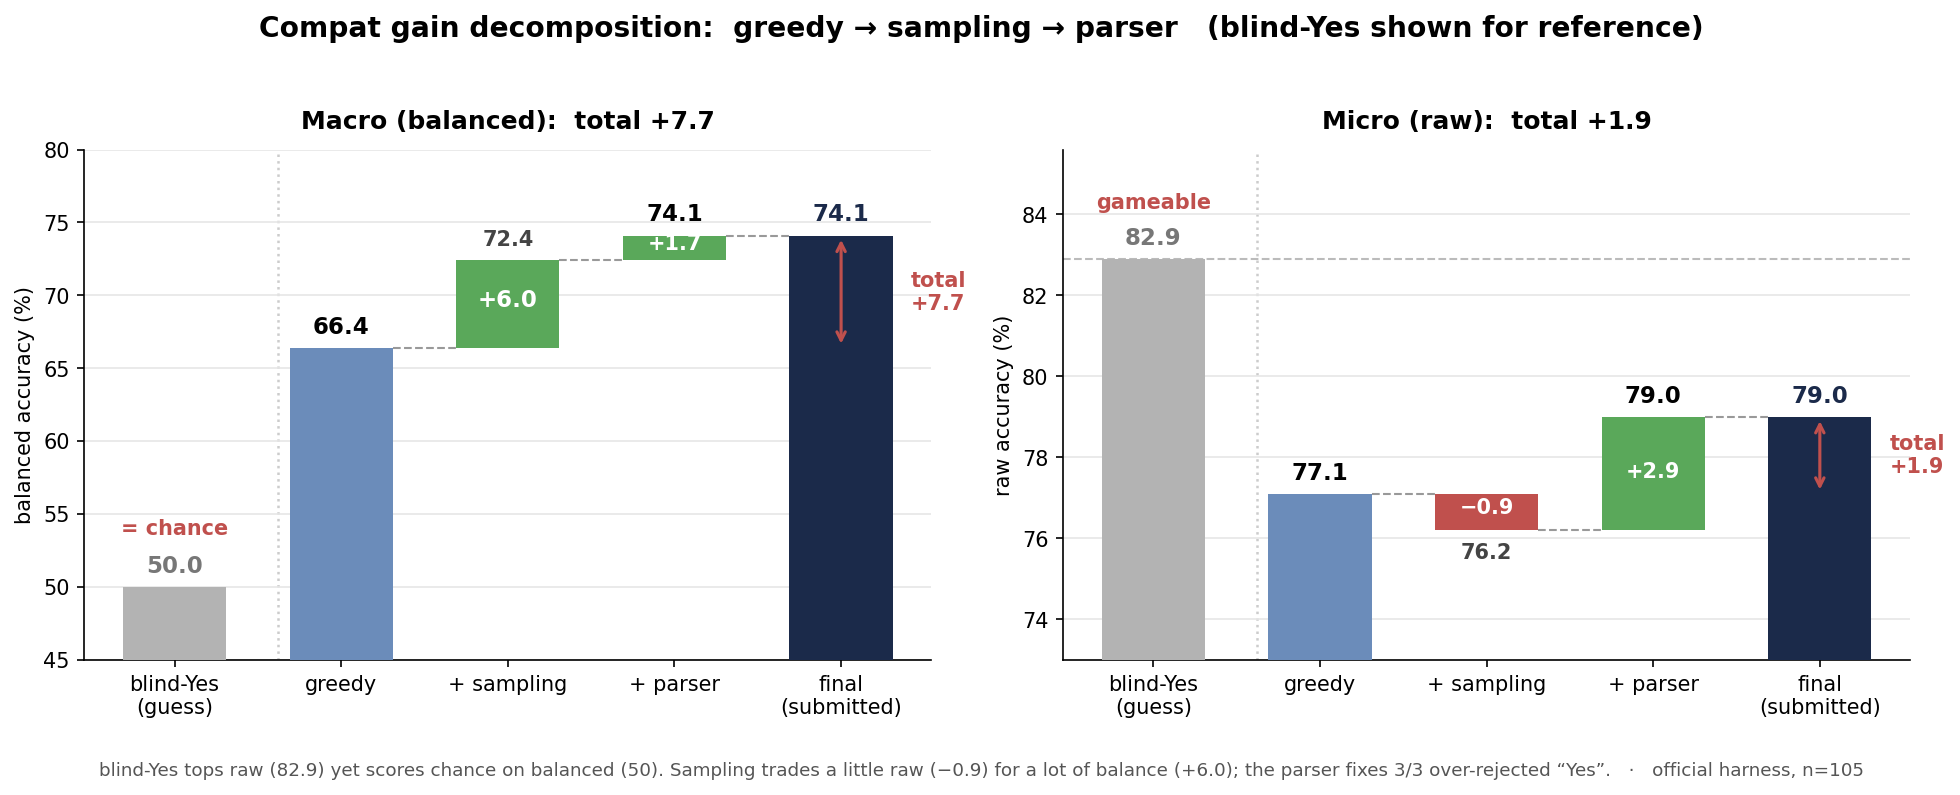
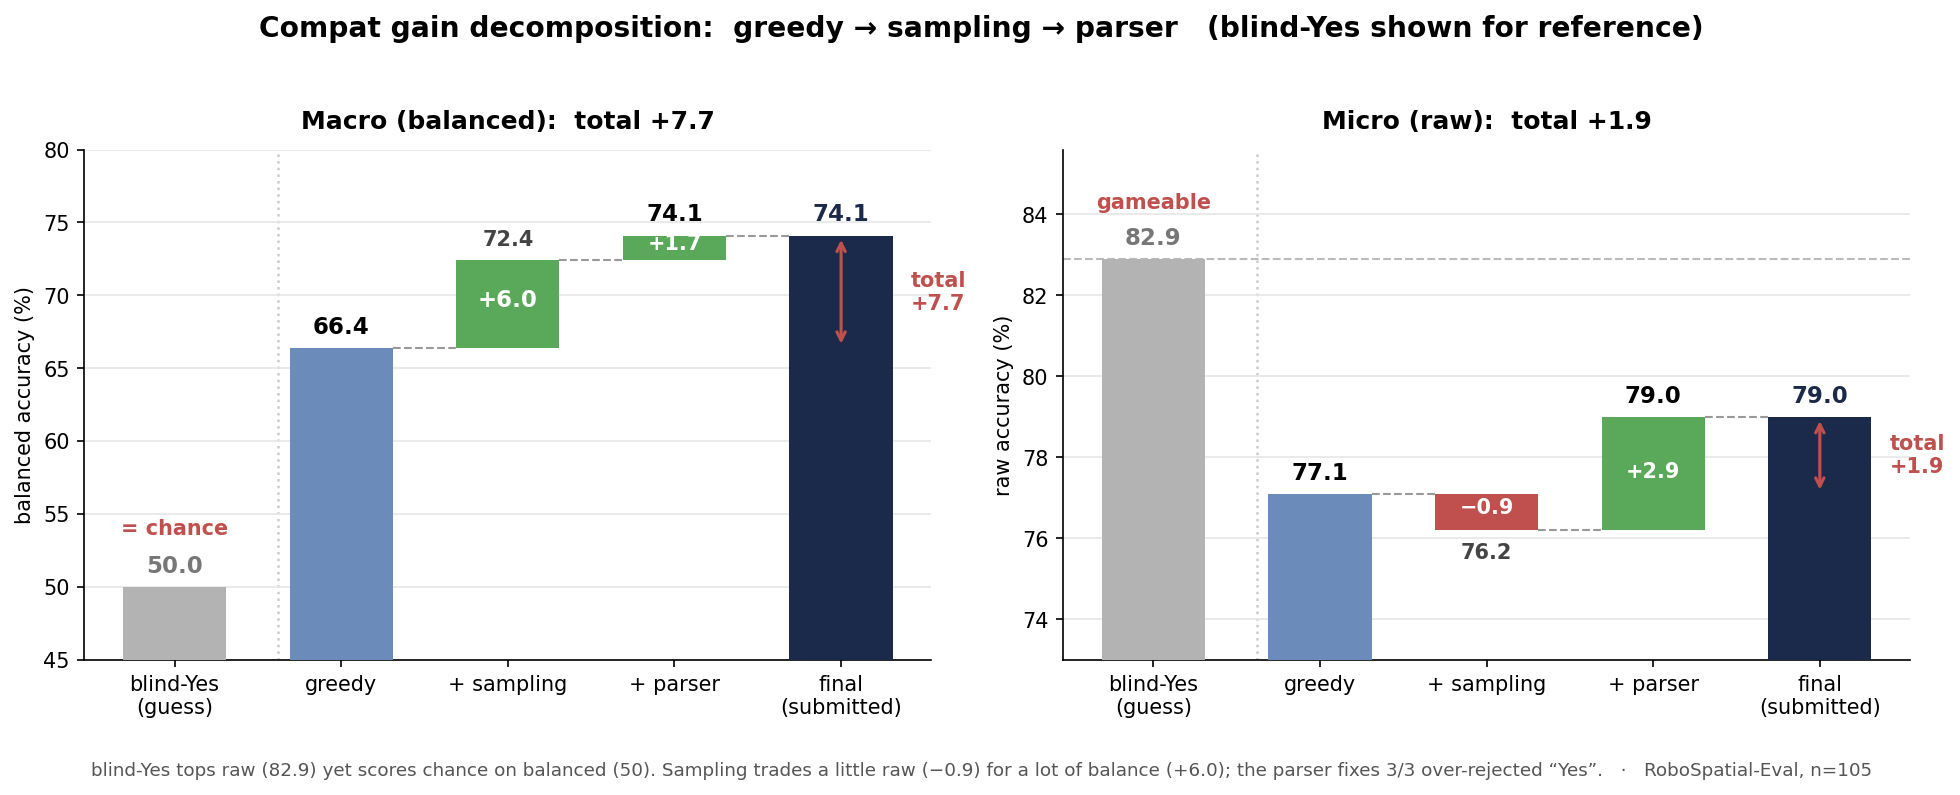
Rework Context section + unify all numbers on RoboSpatial-Eval
- Context: new flow (Challenge: one point & barely misses -> Strategy:
  union w/ sweep-chosen members -> Findings: complementary + near/far)
- Rescore grid/combos/ablation with RoboSpatial-Eval (66.4 solo, 78.7/72.3 union)
- Dual micro/macro solo-vs-union chart; color-coded grid (model/decoding,
  top-2 dashed, selected green)
- TL;DR polish; replace 'official harness' wording everywhere incl. figures

Claude-Session: https://claude.ai/code/session_016Ym2F9ENkQBJ4TE4VoD2K2

Changed region(s): [[0.0311, 0.9358, 0.8092, 0.9962], [0.8403, 0.9358, 0.9648, 0.9962]]

diff --git a/index.html b/index.html
@@ -207,12 +207,12 @@
       <p class="content is-medium has-text-centered" style="color:#333;">
         We place <b>2nd</b> on RoboSpatial-Home — zero-shot, no fine-tuning — by keeping two
         open-weight models fixed and <b>eliciting</b> the spatial skills they already have.
-        A <b>reasoner</b> (Qwen3-VL-32B-Thinking) and a <b>pointing specialist</b> (RoboBrain2.5-8B)
-        are tuned per task along a few inference-time knobs — a <b>reference-frame prompt</b>,
+        A <b>reasoner</b> (Qwen3-VL-32B-Thinking) and a <b>pointing specialist</b> (RoboBrain2.5-8B-MT)
+        are combined through <b>per-task inference choices</b> — a <b>reference-frame prompt</b>,
         <b>decoding</b>, a <b>reasoning-trust parser</b>, and a complementary <b>two-model union</b>.
         The right setting is <b>task-specific</b>: the same knob that helps one task can hurt another
-        (greedy wins Configuration, sampling wins Compatibility). Every choice is read off what the
-        models reveal in their own reasoning.
+        (greedy wins Configuration, sampling wins Compatibility). Every choice is grounded in what the
+        models reveal — in their reasoning traces and in how they fail.
       </p>
     </div>
 
@@ -316,7 +316,7 @@
       </table>
       <p class="cap" style="margin-top:.5rem;line-height:1.6;">
         <b>Micro</b> (before the “/”) = plain accuracy; <b>macro</b> (after) = balanced accuracy over Yes/No for Configuration &amp; Compatibility (guards against the 83% Yes-prior), and the mean over the <b>6 spatial relations</b> (left / right / front / behind / above / below) for Context. <b>Overall</b> = mean of the three tasks; our macro overall is <b>79.4</b>.
-        Every non-grey row is <b>our own run</b> through the official harness. Neither base model alone clears ~72 — the per-task tuning and the two-model <b>union add +11.5</b>. General VLMs collapse on <b>pointing</b> (LLaVA-NeXT / Qwen2-VL ≈ 0) or on <b>Compatibility</b> (Molmo 18). Grey rows are published reference numbers for models we did not run.
+        Every non-grey row is <b>our own run</b> through RoboSpatial-Eval, the challenge’s official evaluation. Neither base model alone clears ~72 — the per-task tuning and the two-model <b>union add +11.5</b>. General VLMs collapse on <b>pointing</b> (LLaVA-NeXT / Qwen2-VL ≈ 0) or on <b>Compatibility</b> (Molmo 18). Grey rows are published reference numbers for models we did not run.
       </p>
       <p class="cap has-text-centered">Zero-shot, open-weight. Fill baseline column with leaderboard references.</p>
     </div>
@@ -457,9 +457,9 @@ else:
                       <tr><td>sampling</td><td class="has-text-right">79.7</td><td class="has-text-right"><span class="r">75.0</span></td><td class="has-text-right">87.0</td><td class="has-text-right">81.0</td></tr>
                     </tbody>
                   </table>
-                  <p class="cap">Sampling drops <span class="r">Yes-recall 90.3 → 75.0</span> — over-rejection returns → Micro <b>−11.9</b>, Macro <b>−10.9</b>. <span class="cap">(official harness, n=118)</span></p>
+                  <p class="cap">Sampling drops <span class="r">Yes-recall 90.3 → 75.0</span> — over-rejection returns → Micro <b>−11.9</b>, Macro <b>−10.9</b>. <span class="cap">(RoboSpatial-Eval, n=118)</span></p>
                 </div>
-                <div class="column is-7"><figure><img src="figs/config/config_decoding.png"></figure></div>
+                <div class="column is-7"><figure><img src="figs/config/config_decoding.png?v=2"></figure></div>
               </div>
             </div>
           </div><!-- /subtabs (Solution) -->
@@ -724,7 +724,7 @@ else:
         <p class="opt-label has-text-centered" style="margin-bottom:.3rem;">Final result — the two fixes stack to 74.1 balanced (79.0 official)</p>
         <p class="cap has-text-centered" style="margin-bottom:1.2rem;max-width:860px;margin-left:auto;margin-right:auto;">The 83%-Yes split makes raw gameable — blind-Yes tops raw (82.9) yet scores chance on balanced (50). We optimize and report <b>balanced</b> accuracy.</p>
         <div class="columns is-vcentered">
-          <div class="column is-8"><figure><img src="figs/compat_gain_waterfall.png" style="max-height:420px;width:auto;margin:0 auto;display:block;"></figure></div>
+          <div class="column is-8"><figure><img src="figs/compat_gain_waterfall.png?v=2" style="max-height:420px;width:auto;margin:0 auto;display:block;"></figure></div>
           <div class="column is-4">
             <p style="margin-bottom:.5rem;"><b>66.4</b> greedy → <span class="g">+6.0</span> sampling → <span class="g">+1.7</span> parser → <b>74.1</b>.</p>
             <p style="margin-bottom:.5rem;"><b>+7.7 pt total</b> (66.4 → 74.1, balanced).</p>
@@ -749,9 +749,9 @@ else:
         <button class="arrow prev" aria-label="prev">‹</button>
         <div class="columns" style="flex:1;margin:0;">
           <div class="column is-4"><div class="block-card step-card p active" data-i="0"><span class="pill p">Candidates &amp; Challenges</span>
-            <p style="margin-top:.5rem;">Any single model caps out — best solo <b>RoboBrain 64.8</b>, Qwen <b>59.0</b> — and the two <b>fail on different questions</b>. Members are picked from each model × decoding × frame.</p></div></div>
+            <p style="margin-top:.5rem;">A single model gives essentially <b>one point</b> (RoboBrain <b>98%</b>, Qwen <b>87%</b> single-point) — and it <b>often just misses</b>: best solo caps at <b>66.4</b>. Half the ≤2-point budget goes unused.</p></div></div>
           <div class="column is-4"><div class="block-card step-card f" data-i="1"><span class="pill f">Strategy</span>
-            <p style="margin-top:.5rem;"><b>Union</b> two complementary models (≤2 points): <b>RoboBrain</b> greedy·no-frame ⊕ <b>Qwen</b> sampling·object. At least one lands inside far more often.</p></div></div>
+            <p style="margin-top:.5rem;"><b>Union</b> two complementary models — <b>1 point from each</b> (≤2 total): <b>RoboBrain</b> greedy·no-frame ⊕ <b>Qwen</b> sampling·object. At least one lands inside far more often.</p></div></div>
           <div class="column is-4"><div class="block-card step-card i" data-i="2"><span class="pill i">Findings</span>
             <p style="margin-top:.5rem;">Two failure styles — RoboBrain <span class="b">far-misses</span> (wrong region), Qwen <span class="r">near-misses</span> (right region). Reasoning helps <b>discrimination, not localization</b>.</p></div></div>
         </div>
@@ -759,73 +759,86 @@ else:
       </div>
       <div class="detail">
         <div class="panel active" data-i="0">
-          <p class="opt-label has-text-centered" style="margin-bottom:.3rem;">Every candidate we considered — model × decoding × frame (single-model, public test)</p>
-          <p class="cap has-text-centered" style="margin-bottom:1rem;max-width:860px;margin-left:auto;margin-right:auto;">Each cell = <b>micro / macro</b> (macro over the 6 relations). No single setting clears ~65 — and each model wants the <i>opposite</i> recipe.</p>
+          <p class="opt-label has-text-centered" style="margin-bottom:.3rem;">One model, one shot — and even the best one misses a third of the time</p>
+          <p class="cap has-text-centered" style="margin-bottom:1.2rem;max-width:860px;margin-left:auto;margin-right:auto;">Single models almost always answer with a <b>single point</b>, so one wrong guess = a wrong answer — while the benchmark allows up to <b>2 points</b>.</p>
           <div class="columns is-centered">
-            <div class="column is-11">
-              <table class="table is-fullwidth is-hoverable" style="font-size:.82rem;">
-                <thead><tr style="background:var(--navy);">
-                  <th style="color:#fff;">Model · decoding</th><th style="color:#fff;text-align:right;">no-frame</th><th style="color:#fff;text-align:right;">ego</th><th style="color:#fff;text-align:right;">object</th><th style="color:#fff;text-align:right;">world</th>
-                </tr></thead>
-                <tbody>
-                  <tr><td><b>RoboBrain</b> · greedy</td><td class="has-text-right" style="background:#e9f4ea;"><b>64.8</b> <span class="cap">/ 62.8</span></td><td class="has-text-right">62.3 <span class="cap">/ 59.7</span></td><td class="has-text-right">61.5 <span class="cap">/ 57.0</span></td><td class="has-text-right">63.9 <span class="cap">/ 61.2</span></td></tr>
-                  <tr><td>RoboBrain · sampling</td><td class="has-text-right">51.6 <span class="cap">/ 46.1</span></td><td class="has-text-right">52.5 <span class="cap">/ 48.1</span></td><td class="has-text-right">41.0 <span class="cap">/ 34.2</span></td><td class="has-text-right">41.8 <span class="cap">/ 34.7</span></td></tr>
-                  <tr><td><b>Qwen</b> · greedy</td><td class="has-text-right">52.5 <span class="cap">/ 45.0</span></td><td class="has-text-right">57.4 <span class="cap">/ 50.5</span></td><td class="has-text-right">59.8 <span class="cap">/ 52.0</span></td><td class="has-text-right">52.5 <span class="cap">/ 49.1</span></td></tr>
-                  <tr><td>Qwen · sampling</td><td class="has-text-right">47.5 <span class="cap">/ 42.8</span></td><td class="has-text-right">62.3 <span class="cap">/ 53.2</span></td><td class="has-text-right" style="background:#e9f4ea;"><b>59.0</b> <span class="cap">/ 52.7</span></td><td class="has-text-right">54.9 <span class="cap">/ 47.5</span></td></tr>
-                </tbody>
-              </table>
-              <p class="cap"><span style="background:#e9f4ea;padding:0 .3rem;border-radius:3px;">green</span> = the two submitted members (RoboBrain <b>greedy · no-frame</b>, Qwen <b>sampling · object</b>). Best single caps at <b>64.8</b> — well below the union.</p>
+            <div class="column is-5"><figure><img src="figs/ctx_overlay_rbonly_below.png"></figure>
+              <p class="cap has-text-centered" style="margin-top:.3rem;">“below the desk” — <b class="r">Qwen alone gets this wrong</b> — its point lands just barely outside the region.</p></div>
+            <div class="column is-5"><figure><img src="figs/ctx_overlay_qwonly_infront.png"></figure>
+              <p class="cap has-text-centered" style="margin-top:.3rem;">“in front of the kitchen towel” — <b class="b">RoboBrain alone gets this wrong</b> — again just barely outside.</p></div>
+          </div>
+          <p class="cap has-text-centered" style="margin:.2rem auto 1.4rem;max-width:640px;">Both models aim at nearly the <b>same spot</b> — one barely inside, the other barely outside. A solo model loses these; together, <b>one of them is in</b>.</p>
+          <div class="columns">
+            <div class="column is-4">
+              <div class="block-card" style="box-shadow:none;height:100%;">
+                <p style="margin-bottom:.3rem;"><b>① One point per answer</b></p>
+                <p class="cap">RoboBrain emits a single point on <b>98%</b> of questions (120/122); Qwen on <b>87%</b>. Effectively one shot each.</p>
+              </div>
+            </div>
+            <div class="column is-4">
+              <div class="block-card" style="box-shadow:none;height:100%;">
+                <p style="margin-bottom:.3rem;"><b>② …and that shot often misses</b></p>
+                <p class="cap">Best solo: RoboBrain <b>66.4</b> · Qwen <b>61.5</b> — a miss on <b>34–39%</b> of questions, many of them <i>barely</i> outside the region.</p>
+              </div>
+            </div>
+            <div class="column is-4">
+              <div class="block-card" style="box-shadow:none;height:100%;">
+                <p style="margin-bottom:.3rem;"><b>③ Half the budget unused</b></p>
+                <p class="cap">Scoring allows <b>≤2 points</b> and counts a hit if <i>either</i> lands inside — a solo model leaves the second point on the table.</p>
+              </div>
             </div>
           </div>
           <div class="columns" style="margin-top:.3rem;">
-            <div class="column is-4"><p class="cap"><b>Single-model ceiling</b> — no setting clears ~65; general VLMs (Molmo / LLaVA / Qwen2-VL) can’t point at all (~0).</p></div>
-            <div class="column is-4"><p class="cap"><b>Opposite recipes</b> — RoboBrain wants <b>greedy · no-frame</b>; Qwen wants a <b>frame + sampling</b>. Reasoning helps Qwen but <span class="r">hurts RoboBrain</span> (−4.9).</p></div>
-            <div class="column is-4"><p class="cap"><b>Errors don’t overlap</b> — the two miss <i>different</i> questions → the opening for a <b>union</b>.</p></div>
+            <div class="column is-4"><p class="cap"><b>Single-model ceiling</b> — no model × decoding × frame setting clears ~67 (full grid in Strategy ②).</p></div>
+            <div class="column is-4"><p class="cap"><b>Errors don’t overlap</b> — the two miss <i>different</i> questions.</p></div>
+            <div class="column is-4"><p class="cap"><b>The opening</b> — an unused second point + uncorrelated misses → <b>union</b>.</p></div>
           </div>
         </div>
         <div class="panel" data-i="1" style="width:100%;">
-          <p class="has-text-centered is-size-5" style="color:var(--navy);margin-bottom:1.1rem;"><b>Two models that fail differently → their union covers more.</b></p>
+          <p class="has-text-centered is-size-5" style="color:var(--navy);margin-bottom:.4rem;"><b>Use both points: submit RoboBrain’s ⊕ Qwen’s</b> — no averaging, no picking a winner; correct if <b>either</b> lands inside.</p>
+          <p class="cap has-text-centered" style="margin:0 auto 1.4rem;max-width:720px;">Best solo <b>66.4</b> → union <b><span class="g">78.7</span></b> (+12.3, scored with RoboSpatial-Eval). <i>Why</i> two points cover so much more — the error geometry — is in <b>Findings</b> below.</p>
           <div class="subtabs">
             <div class="subtab-bar">
-              <button class="subtab" data-i="0">① Union two models</button>
-              <button class="subtab" data-i="1">② Which members</button>
-              <button class="subtab" data-i="2">③ Reasoning ablation</button>
+              <button class="subtab" data-i="0">① How we chose the members</button>
+              <button class="subtab" data-i="1">② Reasoning ablation</button>
             </div>
             <div class="subpanel" data-i="0">
-              <p class="opt-label has-text-centered" style="margin-bottom:.9rem;">Each emits ≤2 points; correct if <i>either</i> lands inside — and they succeed on different questions</p>
-              <div class="columns is-vcentered">
-                <div class="column is-6"><figure><img src="figs/ctx_overlay_rbonly_below.png"></figure>
-                  <p class="cap has-text-centered" style="margin-top:.3rem;">“below the desk” — <b class="b">RoboBrain</b> lands inside; Qwen misses.</p></div>
-                <div class="column is-6"><figure><img src="figs/ctx_overlay_qwonly_infront.png"></figure>
-                  <p class="cap has-text-centered" style="margin-top:.3rem;">“in front” — <b class="r">Qwen</b> lands inside; RoboBrain misses.</p></div>
+              <p class="opt-label has-text-centered" style="margin-bottom:.3rem;">Step 1 — sweep each model solo (model × decoding × frame), keep its best settings</p>
+              <p class="cap has-text-centered" style="margin-bottom:1rem;max-width:860px;margin-left:auto;margin-right:auto;">Each cell = <b>micro / macro</b>. No single setting clears ~67 — and each model wants the <i>opposite</i> recipe.</p>
+              <div class="columns is-centered">
+                <div class="column is-11">
+                  <table class="table is-fullwidth is-hoverable" style="font-size:.82rem;">
+                    <thead><tr style="background:var(--navy);">
+                      <th style="color:#fff;">Model · decoding</th><th style="color:#fff;text-align:right;">no-frame</th><th style="color:#fff;text-align:right;">ego</th><th style="color:#fff;text-align:right;">object</th><th style="color:#fff;text-align:right;">world</th>
+                    </tr></thead>
+                    <tbody>
+                      <tr><td><b style="color:#2e5fa3;">RoboBrain</b> · <b style="color:#0f7b6c;">greedy</b></td><td class="has-text-right" style="background:#e9f4ea;border:2px dashed #1a7a1a;"><b>66.4</b> <span class="cap">/ 61.0</span></td><td class="has-text-right">62.3 <span class="cap">/ 56.5</span></td><td class="has-text-right">61.5 <span class="cap">/ 55.3</span></td><td class="has-text-right" style="border:2px dashed #1a7a1a;">63.9 <span class="cap">/ 58.3</span></td></tr>
+                      <tr><td><b style="color:#2e5fa3;">RoboBrain</b> · <b style="color:#8e44ad;">sampling</b></td><td class="has-text-right">50.8 <span class="cap">/ 45.0</span></td><td class="has-text-right">51.6 <span class="cap">/ 46.2</span></td><td class="has-text-right">41.0 <span class="cap">/ 36.4</span></td><td class="has-text-right">41.8 <span class="cap">/ 36.8</span></td></tr>
+                      <tr><td><b style="color:#d08a00;">Qwen</b> · <b style="color:#0f7b6c;">greedy</b></td><td class="has-text-right">52.5 <span class="cap">/ 46.3</span></td><td class="has-text-right">56.6 <span class="cap">/ 51.8</span></td><td class="has-text-right">57.4 <span class="cap">/ 49.7</span></td><td class="has-text-right">50.8 <span class="cap">/ 46.7</span></td></tr>
+                      <tr><td><b style="color:#d08a00;">Qwen</b> · <b style="color:#8e44ad;">sampling</b></td><td class="has-text-right">46.7 <span class="cap">/ 41.2</span></td><td class="has-text-right" style="border:2px dashed #1a7a1a;">61.5 <span class="cap">/ 53.0</span></td><td class="has-text-right" style="background:#e9f4ea;border:2px dashed #1a7a1a;"><b>57.4</b> <span class="cap">/ 51.9</span></td><td class="has-text-right">51.6 <span class="cap">/ 43.7</span></td></tr>
+                    </tbody>
+                  </table>
+                  <p class="cap" style="margin-bottom:.35rem;"><span style="border:2px dashed #1a7a1a;padding:0 .35rem;border-radius:3px;">dashed</span> = each model’s top-2 (kept for Step 2) · <span style="background:#e9f4ea;border:2px dashed #1a7a1a;padding:0 .35rem;border-radius:3px;">green</span> = the member the submitted union uses.</p>
+                  <p class="cap"><b style="color:#2e5fa3;">RoboBrain</b> — <b style="color:#0f7b6c;">greedy</b> ≫ <b style="color:#8e44ad;">sampling</b> (+15.6 pt), no-frame best → keep its top-2: greedy·{none, world}. &nbsp; <b style="color:#d08a00;">Qwen</b> — needs a frame (+14.8 pt), then <b style="color:#8e44ad;">sampling</b> ≥ <b style="color:#0f7b6c;">greedy</b> → keep its top-2: sampling·{ego, object}.</p>
+                </div>
               </div>
-              <p class="cap has-text-centered" style="margin-top:.4rem;max-width:820px;margin-left:auto;margin-right:auto;">Because their mistakes are uncorrelated, taking <b>both models’ points</b> (≤2 total) means one is usually inside — the union clears the best single model (64.8 → 77.9), see the final result below.</p>
-            </div>
-            <div class="subpanel" data-i="1">
-              <p class="opt-label has-text-centered" style="margin-bottom:.9rem;">Members are picked by their own accuracy — and reasoning is asymmetric</p>
-              <div class="columns is-centered" style="margin-bottom:.5rem;">
+              <p class="opt-label has-text-centered" style="margin:1.3rem 0 .3rem;">Step 2 — union every top-2 × top-2 pair, submit the best</p>
+              <div class="columns is-centered">
                 <div class="column is-11">
                   <table class="table is-fullwidth is-hoverable" style="font-size:.86rem;">
                     <thead><tr style="background:var(--navy);"><th style="color:#fff;">Union (RoboBrain ⊕ Qwen, ≤2 pts)</th><th style="color:#fff;text-align:right;">Micro</th><th style="color:#fff;text-align:right;">Macro</th><th style="color:#fff;text-align:right;">rank</th></tr></thead>
                     <tbody>
-                      <tr style="background:#e9f4ea;"><td><b>✓ RB greedy·none ⊕ Qwen sampling·object</b></td><td class="has-text-right"><b>77.9</b></td><td class="has-text-right"><b>73.7</b></td><td class="has-text-right" style="color:var(--green);"><b>submitted · #1</b></td></tr>
-                      <tr><td>RB greedy·world ⊕ Qwen sampling·object</td><td class="has-text-right">77.0</td><td class="has-text-right">73.4</td><td class="has-text-right cap">#2</td></tr>
-                      <tr><td>RB greedy·none ⊕ Qwen sampling·ego</td><td class="has-text-right">76.2</td><td class="has-text-right">72.0</td><td class="has-text-right cap">#3</td></tr>
-                      <tr><td>RB greedy·world ⊕ Qwen sampling·ego</td><td class="has-text-right">76.2</td><td class="has-text-right">71.4</td><td class="has-text-right cap">#4</td></tr>
+                      <tr style="background:#e9f4ea;"><td><b>✓ RB greedy·none ⊕ Qwen sampling·object</b></td><td class="has-text-right"><b>78.7</b></td><td class="has-text-right"><b>72.3</b></td><td class="has-text-right" style="color:var(--green);"><b>submitted · #1</b></td></tr>
+                      <tr><td>RB greedy·none ⊕ Qwen sampling·ego</td><td class="has-text-right">77.0</td><td class="has-text-right">70.3</td><td class="has-text-right cap">#2</td></tr>
+                      <tr><td>RB greedy·world ⊕ Qwen sampling·object</td><td class="has-text-right">76.2</td><td class="has-text-right">70.3</td><td class="has-text-right cap">#3</td></tr>
+                      <tr><td>RB greedy·world ⊕ Qwen sampling·ego</td><td class="has-text-right">76.2</td><td class="has-text-right">69.2</td><td class="has-text-right cap">#4</td></tr>
                     </tbody>
                   </table>
-                  <p class="cap">Pre-select each member by its own single-model score — RoboBrain greedy {none, world}, Qwen sampling {ego, object} — then union. Our combo is <b>#1 on both micro and macro</b>. <span class="cap">(public dev set; the submitted combo scores 78.7 / 72.3 on the official test)</span></p>
+                  <p class="cap">Our combo is <b>#1 on both micro and macro</b> — the members were chosen by the sweep, not by hand. <span class="cap">(all numbers scored with RoboSpatial-Eval, the challenge’s official evaluation · n=122)</span></p>
                 </div>
               </div>
-              <div class="columns is-centered">
-                <div class="column is-9"><div class="block-card" style="box-shadow:none;">
-                  <p style="margin-bottom:.4rem;"><b>Decoding × frame, per model — each wants the opposite:</b></p>
-                  <p class="quote" style="border-left-color:#2e5fa3;"><b>RoboBrain</b> — greedy ≫ sampling (~16 pt); <b>no-frame</b> is best.</p>
-                  <p class="quote after" style="margin-top:.4rem;"><b>Qwen</b> — <b>needs a frame</b> (up to +15 pt); with a frame, sampling ≥ greedy → <b>object</b>.</p>
-                </div></div>
-              </div>
             </div>
-            <div class="subpanel" data-i="2">
+            <div class="subpanel" data-i="1">
               <p class="opt-label has-text-centered" style="margin-bottom:.3rem;">Reasoning is asymmetric — keep it ON for Qwen, OFF for RoboBrain</p>
               <p class="cap has-text-centered" style="margin-bottom:1rem;max-width:840px;margin-left:auto;margin-right:auto;">Ablation on the submitted union: swapping <i>either</i> model’s reasoning setting <b>lowers</b> the union.</p>
               <div class="columns is-centered">
@@ -833,39 +846,37 @@ else:
                   <table class="table is-fullwidth is-hoverable" style="font-size:.86rem;">
                     <thead><tr style="background:var(--navy);"><th style="color:#fff;">Context union (≤2 pts)</th><th style="color:#fff;text-align:right;">Micro</th><th style="color:#fff;text-align:right;">Macro</th><th style="color:#fff;text-align:right;">Δ</th></tr></thead>
                     <tbody>
-                      <tr style="background:#e9f4ea;"><td><b>✓ RoboBrain (direct) ⊕ Qwen (Thinking)</b></td><td class="has-text-right"><b>77.9</b></td><td class="has-text-right"><b>73.7</b></td><td class="has-text-right" style="color:var(--green);"><b>submitted · best</b></td></tr>
-                      <tr><td>swap Qwen → Instruct <span class="cap">(reasoning OFF)</span></td><td class="has-text-right">75.4</td><td class="has-text-right">71.5</td><td class="has-text-right"><span class="r">−2.5</span></td></tr>
-                      <tr><td>swap RoboBrain → CoT <span class="cap">(reasoning ON)</span></td><td class="has-text-right">73.0</td><td class="has-text-right">66.7</td><td class="has-text-right"><span class="r">−4.9</span></td></tr>
+                      <tr style="background:#e9f4ea;"><td><b>✓ RoboBrain (direct) ⊕ Qwen (Thinking)</b></td><td class="has-text-right"><b>78.7</b></td><td class="has-text-right"><b>72.3</b></td><td class="has-text-right" style="color:var(--green);"><b>submitted · best</b></td></tr>
+                      <tr><td>swap Qwen → Instruct <span class="cap">(reasoning OFF)</span></td><td class="has-text-right">75.4</td><td class="has-text-right">69.2</td><td class="has-text-right"><span class="r">−3.3</span></td></tr>
+                      <tr><td>swap RoboBrain → CoT <span class="cap">(reasoning ON)</span></td><td class="has-text-right">72.1</td><td class="has-text-right">64.7</td><td class="has-text-right"><span class="r">−6.6</span></td></tr>
                     </tbody>
                   </table>
                 </div>
               </div>
               <div class="columns" style="margin-top:.2rem;">
                 <div class="column is-6"><p class="cap"><span class="g">Helps Qwen</span> as a union partner — its different mistakes complement RoboBrain better (and its traces are inspectable).</p></div>
-                <div class="column is-6"><p class="cap"><span class="r">Hurts RoboBrain</span> — reasoning derails its pointing (−4.9; CoT distillation −20). → submit <b>Qwen WITH ⊕ RoboBrain WITHOUT</b>, union-optimal.</p></div>
+                <div class="column is-6"><p class="cap"><span class="r">Hurts RoboBrain</span> — reasoning derails its pointing (−6.6; CoT distillation −20). → submit <b>Qwen WITH ⊕ RoboBrain WITHOUT</b>, union-optimal.</p></div>
               </div>
             </div>
           </div>
         </div>
         <div class="panel" data-i="2" style="width:100%;">
-          <p class="opt-label has-text-centered" style="margin-bottom:.3rem;">Why the union works — two different failure styles</p>
-          <p class="cap has-text-centered" style="margin-bottom:1.4rem;max-width:860px;margin-left:auto;margin-right:auto;">Each point’s <b>signed distance</b> to the target mask, normalized by object size (&lt;0 = inside).</p>
+          <p class="opt-label has-text-centered" style="margin-bottom:.3rem;">Why the union works — and what the remaining misses look like</p>
+          <p class="cap has-text-centered" style="margin-bottom:1.4rem;max-width:860px;margin-left:auto;margin-right:auto;">Every point is scored by its <b>signed distance</b> to the target mask, normalized by object size (&lt;0 = inside).</p>
           <div class="subtabs">
             <div class="subtab-bar">
-              <button class="subtab" data-i="0">1 · Far vs near misses</button>
-              <button class="subtab" data-i="1">2 · Complementary coverage</button>
-              <button class="subtab" data-i="2">3 · Why Qwen far-misses</button>
+              <button class="subtab" data-i="0">① Complementary coverage</button>
+              <button class="subtab" data-i="1">② Near vs far — why Qwen far-misses</button>
             </div>
             <div class="subpanel" data-i="0">
               <div class="columns is-vcentered">
-                <div class="column is-7"><figure><img src="figs/ctx_nearmiss_dist_k.png"></figure></div>
+                <div class="column is-7"><figure><img src="figs/ctx_signed_scatter.png" style="max-height:520px;width:auto;margin:0 auto;display:block;"></figure></div>
                 <div class="column is-5">
-                  <p style="margin-bottom:.5rem;"><b class="b">RoboBrain misses far</b> — median miss ≈ 0.9 r, a cluster beyond 1.5 r → <b>wrong region</b>.</p>
-                  <p style="margin-bottom:.5rem;"><b class="r">Qwen misses near</b> — median miss ≈ 0.4 r → <b>right region, just outside</b>.</p>
-                  <p class="cap">Different error geometry is exactly what makes them complement.</p>
+                  <p style="margin-bottom:.5rem;"><b>They miss different questions.</b> Each dot is one question (x = Qwen, y = RoboBrain signed distance). <b>3 of 4 quadrants</b> are covered by at least one model inside → <span class="g">95 / 122 ≈ 78%</span>.</p>
+                  <p class="cap">The two rarely miss the same question, so taking both points reaches ~78% vs RoboBrain 66% / Qwen 57% alone.</p>
                 </div>
               </div>
-              <p class="opt-label has-text-centered" style="margin:1.6rem 0 .6rem;">How we measure “far” vs “near” — signed distance to the mask</p>
+              <p class="opt-label has-text-centered" style="margin:1.6rem 0 .6rem;">How to read the axes — signed distance to the mask</p>
               <div class="columns is-vcentered" style="margin-top:.2rem;">
                 <div class="column is-7"><figure><img src="figs/signed_dist_diagram.png" style="width:100%;max-width:640px;margin:0 auto;display:block;"></figure></div>
                 <div class="column is-5">
@@ -887,18 +898,24 @@ else:
                   </div>
                 </div>
               </div>
+              <p class="cap has-text-centered" style="margin-top:1.2rem;max-width:760px;margin-left:auto;margin-right:auto;">Look closer at the misses in the scatter: many hug the boundary — <b style="color:#b5730a;">near-misses</b> (0 ≤ d &lt; 0.5 r): <b>38 points</b> in total, Qwen <b>26</b> of its 50 misses · RoboBrain <b>12</b> of its 43. But not all of them… <b>→ ②</b></p>
             </div>
             <div class="subpanel" data-i="1">
               <div class="columns is-vcentered">
-                <div class="column is-7"><figure><img src="figs/ctx_signed_scatter.png" style="max-height:520px;width:auto;margin:0 auto;display:block;"></figure></div>
+                <div class="column is-7"><figure><img src="figs/ctx_nearmiss_dist_k.png"></figure></div>
                 <div class="column is-5">
-                  <p style="margin-bottom:.5rem;">Each dot is one question (x = Qwen, y = RoboBrain signed distance). <b>3 of 4 quadrants</b> are covered by at least one model inside → <span class="g">95 / 122 ≈ 78%</span>.</p>
-                  <p class="cap">The two rarely miss the same question, so the union reaches ~78% vs RoboBrain 65% / Qwen 57% alone.</p>
+                  <p style="margin-bottom:.5rem;"><b>Both models miss near the boundary a lot</b> — but the tails differ: <b class="b">RoboBrain’s misses skew far</b> (median ≈ 0.9 r, a cluster beyond 1.5 r → wrong region), while <b class="r">Qwen’s cluster near</b> (median ≈ 0.4 r → right region, just outside).</p>
+                  <p class="cap">Yet Qwen — the <i>reasoner</i> — still has a real far-miss tail. Why would a model that reasons out loud miss by a lot?</p>
                 </div>
               </div>
-            </div>
-            <div class="subpanel" data-i="2">
-              <p class="cap has-text-centered" style="margin-bottom:1rem;max-width:860px;margin-left:auto;margin-right:auto;">Reading Qwen’s <code>&lt;think&gt;</code> traces, grouped by how far the point landed (log-ratio of over-used terms).</p>
+              <div class="columns is-vcentered" style="margin-top:1rem;">
+                <div class="column is-5"><figure><img src="figs/ctx_farnear_example.png" style="max-height:420px;width:auto;margin:0 auto;display:block;"></figure></div>
+                <div class="column is-7">
+                  <p style="margin-bottom:.5rem;"><b>Both styles in one question</b> — “vacant space in front of the teddy bear”: <b class="b">RoboBrain far-misses</b> (145% r, wrong region) while <b class="r">Qwen near-misses</b> (26% r, just outside).</p>
+                  <p class="cap">Even the union’s residual errors look like this — when both miss, they miss <i>differently</i>.</p>
+                </div>
+              </div>
+              <p class="cap has-text-centered" style="margin:1.4rem auto 1rem;max-width:860px;">To find out, we read Qwen’s <code>&lt;think&gt;</code> traces, grouped by how far the point landed (log-ratio of over-used terms).</p>
               <p class="opt-label has-text-centered" style="margin-bottom:.7rem;">Same question type, two reasoning styles</p>
               <div class="columns" style="margin-bottom:1.3rem;">
                 <div class="column is-6"><div class="block-card" style="box-shadow:none;">
@@ -933,9 +950,9 @@ else:
       <div style="margin-top:2.2rem;padding-top:1.5rem;border-top:1px solid #e7e7e7;">
         <p class="opt-label has-text-centered" style="margin-bottom:.9rem;">Final result — the union clears every single model (→ 78.7 official)</p>
         <div class="columns is-vcentered">
-          <div class="column is-7"><figure><img src="figs/context_solo_union.png" style="max-height:420px;width:auto;margin:0 auto;display:block;"></figure></div>
+          <div class="column is-7"><figure><img src="figs/context_solo_union.png?v=7" style="max-height:420px;width:auto;margin:0 auto;display:block;"></figure></div>
           <div class="column is-5">
-            <p style="margin-bottom:.5rem;">Best single model <b>64.8</b> → union <b>RoboBrain greedy·no-frame ⊕ Qwen sampling·object</b> = <span class="g">77.9</span> (public) · <b>78.7</b> official.</p>
+            <p style="margin-bottom:.5rem;">Best single model <b>66.4</b> → union <b>RoboBrain greedy·no-frame ⊕ Qwen sampling·object</b> = <span class="g">78.7</span> micro / <b>72.3</b> macro.</p>
             <p class="cap">Complementary errors — not a bigger model — are the lever. #1 among candidate unions on both raw and balanced.</p>
           </div>
         </div>